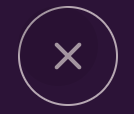
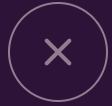
replace close modal

Changed region(s): [[0.0536, 0.0, 0.9643, 0.9623], [0.375, 0.3396, 0.6429, 0.6226], [0.375, 0.566, 0.4286, 0.6226]]

diff --git a/src/app/components/video-modal/video-modal.component.html b/src/app/components/video-modal/video-modal.component.html
@@ -7,17 +7,14 @@
 >
   <mat-dialog-actions>
     <div class="container" fxLayout="row" fxLayoutAlign="flex-end">
-      <button
-        mat-icon-button
+      <img
+        class="close"
         aria-label="Fechar"
         aria-hidden="false"
         mat-dialog-close
-      >
-        <img
-          [src]="img.src"
-          [appHeight]="img.height"
-        />
-      </button>
+        [src]="img.src"
+        [appHeight]="img.height"
+      />
     </div>
   </mat-dialog-actions>
   <mat-dialog-content style="height: 100%">

diff --git a/src/app/components/video-modal/video-modal.component.sass b/src/app/components/video-modal/video-modal.component.sass
@@ -11,3 +11,6 @@
 
 .content
   height: 860px
+
+.close
+  cursor: pointer
